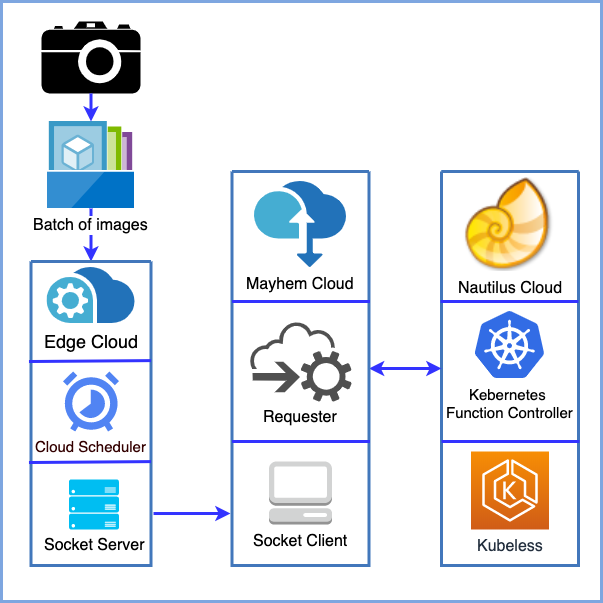
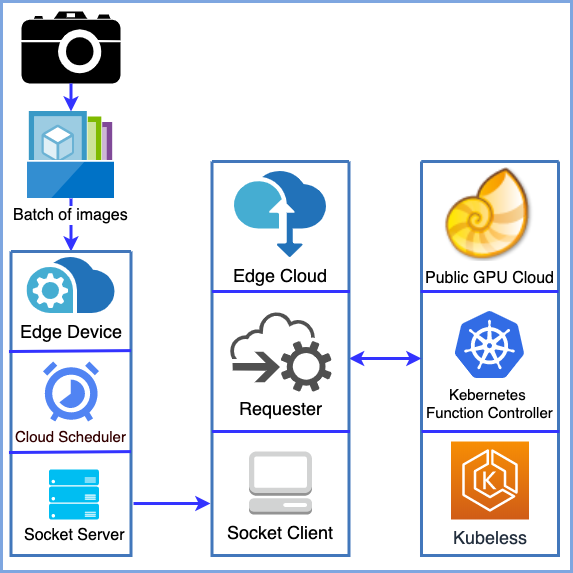
mz  - Add drawio links

Changed region(s): [[0.0, 0.0, 0.9791, 0.9791]]

diff --git a/STOIC.tex b/STOIC.tex
@@ -2,8 +2,8 @@ To leverage accelerator and distributed scheduling using the serverless architec
 
 \begin{figure}[t] \centering 
 \includegraphics[scale=0.4]{STOIC}
-\caption{The architecture of STOIC
-\label{fig:STOIC}}
+\caption{\textbf{The Architecture of STOIC}}
+\label{fig:STOIC}
 \end{figure}
 
 \subsection{Edge Cloud}

diff --git a/intro.tex b/intro.tex
@@ -9,7 +9,7 @@ An immediate difficulty we face is the scarcity of computational resources on ed
 \begin{figure}
     \centering
     \includegraphics[scale=0.25]{figures/edge}
-    \caption{The Design Principle of STOIC }
+    \caption{\textbf{The Design Principle of STOIC}}
     \label{fig:edge}
 \end{figure}
 

diff --git a/README.md b/README.md
@@ -6,10 +6,11 @@ Figure Editing URL:
 
 * The Design Principle of STOIC:
 
-
+https://www.draw.io/#HMAYHEM-Lab%2FSTOIC_PerCom_Paper%2Fmaster%2Ffigures%2Fedge.drawio
 
 
 * The architecture of STOIC:
 
 https://www.draw.io/#HMAYHEM-Lab%2FSTOIC_PerCom_Paper%2Fmaster%2Ffigures%2FSTOIC.drawio
 
+After editing, export the graph as PNG and commit it to the figures folder. 
